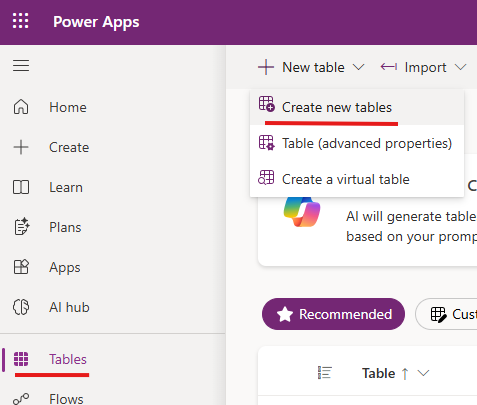
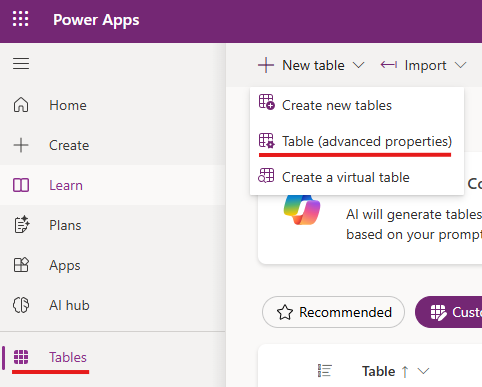
Add Sync with global choice screenshot; refresh updated images

diff --git a/canvas-app-dataverse-flow/README.md b/canvas-app-dataverse-flow/README.md
@@ -49,6 +49,7 @@ labeled with the part and step it belongs to. To use your own captures:
 | `01-new-table.png` | Part 1 – Tables › New table |
 | `02-table-columns.png` | Part 1 – Table columns |
 | `new-column.png` | Part 1 – Opening the New column panel |
+| `sync-global-choice.png` | Part 1 – Choice: Sync with global choice = No |
 | `03-flow-trigger-inputs.png` | Part 2 – PowerApps (V2) trigger inputs |
 | `04-flow-send-email.png` | Part 2 – Send an email (V2) |
 | `responsive-scale-to-fit.png` | Part 3 – Settings › Display › Scale to fit Off |
@@ -95,6 +96,8 @@ labeled with the part and step it belongs to. To use your own captures:
    > **Note (Choice columns):** For `Priority` and `Status`, when the **New
    > column** panel asks **Sync with global choice?**, set it to **No** so you
    > create a local choice with your own options for this table.
+
+   ![Sync with global choice set to No](images/sync-global-choice.png)
 
 7. **Save** the table. Leave the designer open (optional: add 1–2 sample rows
    via **Edit** → **+ New row**).
